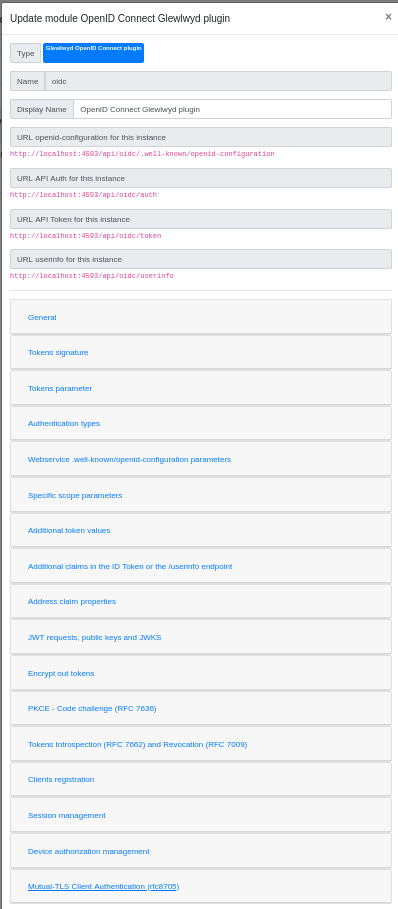
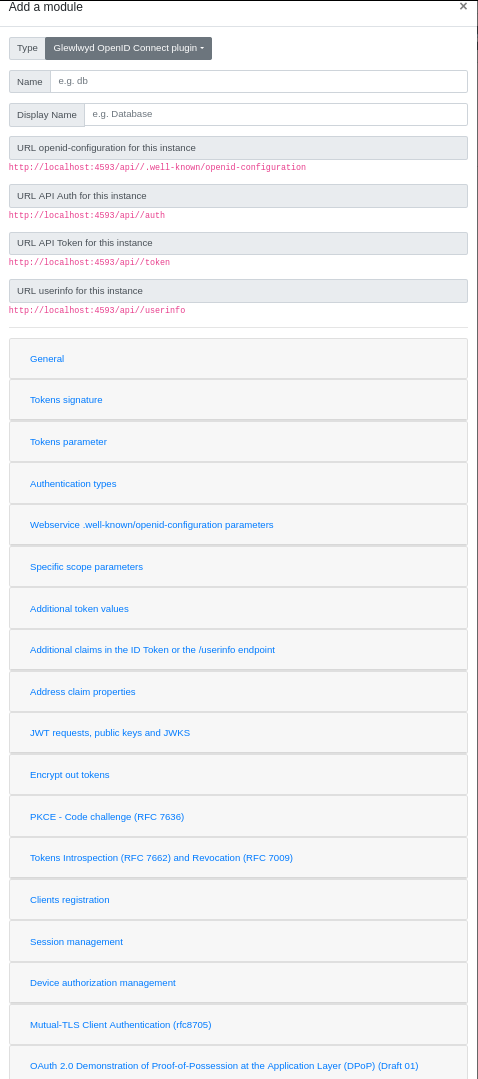
Update oidc doc

Changed region(s): [[0.0, 0.0, 1.0, 1.0]]

diff --git a/docs/OIDC.md b/docs/OIDC.md
@@ -33,6 +33,7 @@ The following OpenID Connect and OAuth2 functionalities are currently supported:
 - [JWT Response for OAuth Token Introspection](https://tools.ietf.org/html/draft-ietf-oauth-jwt-introspection-response-08)
 - [OAuth 2.0 for Native Apps](https://tools.ietf.org/html/rfc8252), see [Native Apps Guidelines](#native-apps-guidelines)
 - [OAuth 2.0 Device Grant](https://tools.ietf.org/html/rfc8628)
+- [OAuth 2.0 Demonstration of Proof-of-Possession at the Application Layer (DPoP) Draft 01](https://datatracker.ietf.org/doc/html/draft-ietf-oauth-dpop-01)
 
 The following OpenID Connect functionalities are not supported yet:
 
@@ -651,12 +652,24 @@ If this is set to true, clients will be allowed to use self-signed certificates 
 
 **WARNING** This setting must be used with high precaution! Self-signed certificates are less secure than certificates delivered by trusted CA.
 
+## OAuth 2.0 Demonstration of Proof-of-Possession at the Application Layer (DPoP) (Draft 01)
+
+Glewlwyd OIDC plugin supports OAuth 2.0 Demonstration of Proof-of-Possession at the Application Layer (DPoP) (Draft 01). The DPoP header can be used during a response_type `code` or `device_code`, also the endpoints `/userinfo` and `/token` will validate the DPoP header if the access token used has a `jkt` property. The endpoints `/register`, `/introspect` or `/revoke` won't validate the DPoP header by design.
+
+### Allow DPoP
+
+If this is set to true, the DPoP header will be parsed and validated when enabled.
+
+### DPoP Token iat claim maximum duration (seconds)
+
+Maximum duration authorized for a DPoP iat property.
+
 ## Native Apps Guidelines
 
 Glewlwyd is conform to [OAuth 2.0 for Native Apps](https://tools.ietf.org/html/rfc8252) best current practice considering the following configuration:
 
 - Any `redirect_uri` is allowed if the client is manually added by an admin in the admin app
-- Any `https://` is allowed URL or unsecured loopback (locahost/127.0.0.1/[::1]) URL when the client uses the client registration endpoint. `redirect_uris` accepted in the client registration endpoint **MUST NOT** contain username attribute (`https://username@domain.tld`)
+- Any `https://` URL is allowed or unsecured loopback URL (locahost/127.0.0.1/[::1]) when the client uses the client registration endpoint. `redirect_uris` accepted in the client registration endpoint **MUST NOT** contain username attribute (`https://username@domain.tld`)
 - [PKCE](https://tools.ietf.org/html/rfc7636) extension is supported
 - A client can be specified as public (i.e. not confidential), without secret or public key
 
